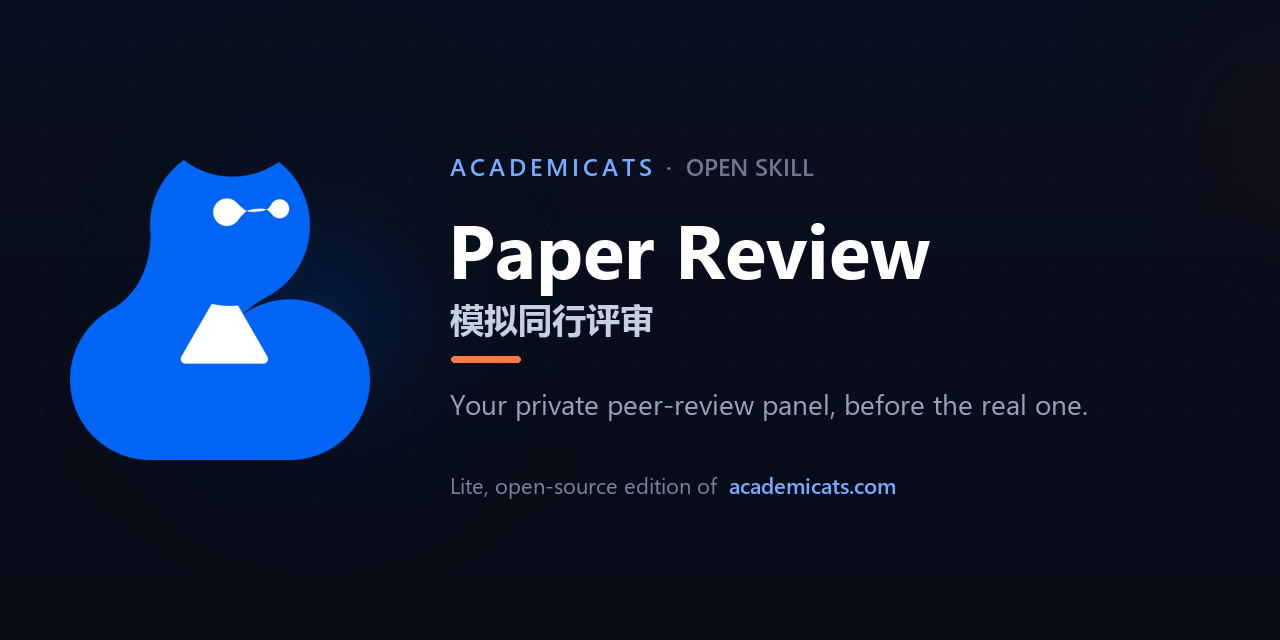
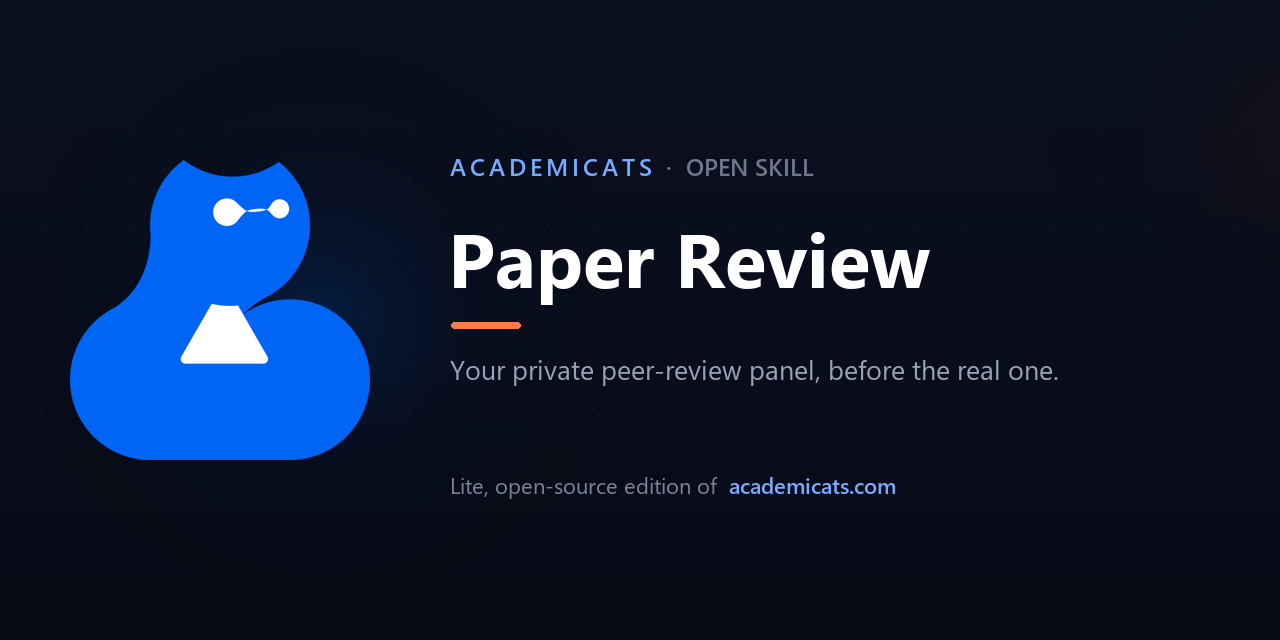
feat: monolingual covers, one-click family installer, UX polish
- Separate English (cover.png) and Chinese (cover-zh.png) banners so each
  README is fully single-language.
- Add install.sh: one command installs all three skills + pypdf into Claude Code.
- READMEs: skill-family cross-links + install-all line + FAQ.

Changed region(s): [[0.3438, 0.3438, 0.8438, 0.5938], [0.3438, 0.625, 0.8438, 0.6562]]

diff --git a/README.zh-CN.md b/README.zh-CN.md
@@ -2,7 +2,7 @@
 
 [English](README.md) · **中文**
 
-<img src="assets/cover.png" alt="AcademiCats · Paper Review" width="100%">
+<img src="assets/cover-zh.png" alt="AcademiCats · Paper Review" width="100%">
 
 <br>
 
@@ -91,6 +91,8 @@ git clone https://github.com/jy1529098645-gif/Cat_paper_review.git ~/.claude/ski
 - 🔍 [论文检索](https://github.com/jy1529098645-gif/Cat_paper_search) —— 找文献、读文献
 - ✍ [文献写作台](https://github.com/jy1529098645-gif/Cat_synthesis_lab) —— 据你的文献写出有据成稿
 - 🧪 **模拟同行评审** *（你在这里）* —— 对你自己的草稿做同行评审
+
+**一次装齐三个** —— clone 任意一个仓库后运行 `bash install.sh`。
 
 ## 🙋 常见问题
 

diff --git a/README.md b/README.md
@@ -92,6 +92,8 @@ Three open skills that chain into one research workflow — install any or all:
 - ✍ [Synthesis Lab](https://github.com/jy1529098645-gif/Cat_synthesis_lab) — write grounded papers from your sources
 - 🧪 **Paper Review** *(you are here)* — peer-review your own draft
 
+**Install all three at once** — clone any one repo, then run `bash install.sh`.
+
 ## 🙋 FAQ
 
 - **It didn't trigger?** Restart Claude Code after installing, and phrase your message as a task — *"review my draft …"*.
